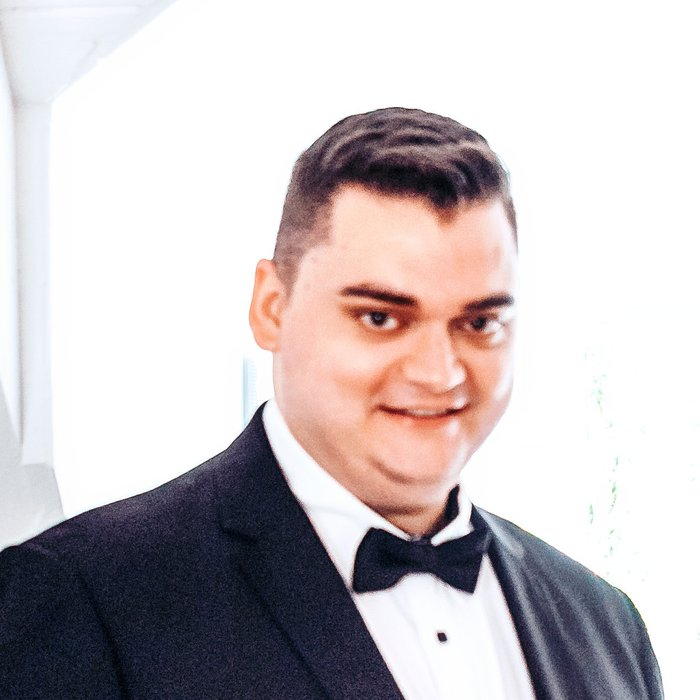
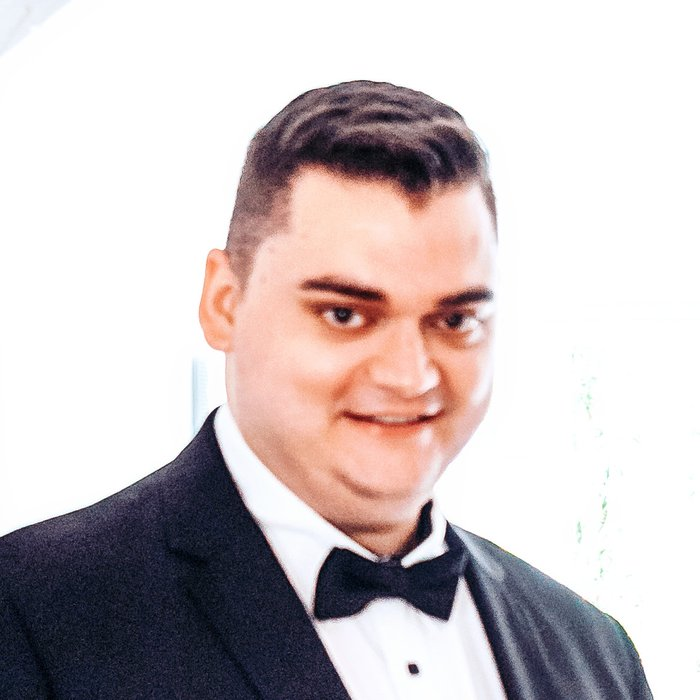
Re-crop Brandon's photo tighter on the left
Kept the right edge from the originally-approved crop fixed, trimmed
more off the left, re-centered to stay square for the avatar box.

Claude-Session: https://claude.ai/code/session_01W6qfXoS6MM5tnBe3egmjuf

diff --git a/MEMORY.md b/MEMORY.md
@@ -6,6 +6,32 @@ time you finish a unit of work here.
 
 ---
 
+## 2026-07-29 (photo re-crop) — Brandon's photo re-cropped tighter on the left
+
+Follow-up to the approved Brandon photo: user asked to crop more from the
+left. First attempt shifted the whole crop window right (which also moved
+the right edge) - user corrected that: "leave the right as it was." Redid
+it properly: kept the original approved crop's right edge (x=1960 in the
+source photo's coordinate space) fixed, only moved the left edge in
+(660 → 790), then re-centered top/bottom around the same vertical midpoint
+to keep the crop square (1170×1170) rather than feeding a non-square
+source into the `object-fit: cover` square avatar box, which would have
+let the browser do its own unpredictable additional crop at render time.
+Sent for approval again before touching the repo - same approval-gated
+workflow as the original photo.
+
+Approved, then re-saved over `images/brandon-le-roux.jpg` (resized to
+700×700, same optimization settings as before) - no HTML/CSS changes
+needed, the `<img>` tag already pointed at this filename.
+
+**Verified**: screenshotted the Leadership section again post-swap -
+tighter left crop, same headroom/shoulder framing as before, still
+consistent with Jessica's card.
+
+---
+
+---
+
 ## 2026-07-29 (post-deploy fix) — Hero headline's "LRX"/"TECH" colour mismatch
 
 User caught this from a real screenshot of the live site after the deploy

diff --git a/TODO.md b/TODO.md
@@ -3,6 +3,12 @@
 Living backlog. Check items off (or move to MEMORY.md as a dated entry) as they're
 done — don't just accumulate; keep this reflecting real, current state.
 
+## Fixed 2026-07-29 (photo re-crop) — Brandon's photo cropped tighter on the left
+
+- [x] Re-cropped `images/brandon-le-roux.jpg`, keeping the right edge from
+      the originally-approved crop fixed and trimming more off the left,
+      re-centered to stay square. Approved and swapped in. See MEMORY.md.
+
 ## Fixed 2026-07-29 (post-deploy fix) — Hero "LRX"/"TECH" colour mismatch
 
 - [x] User spotted this from a real screenshot of the live site after the
